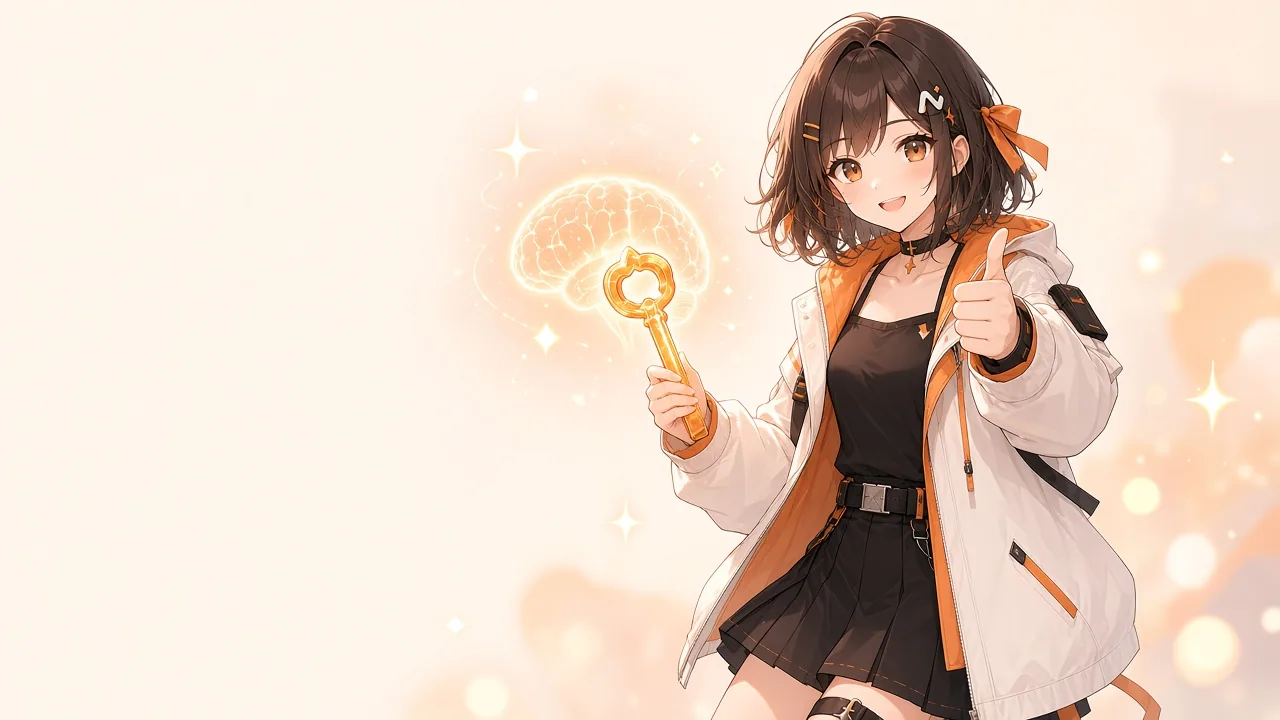
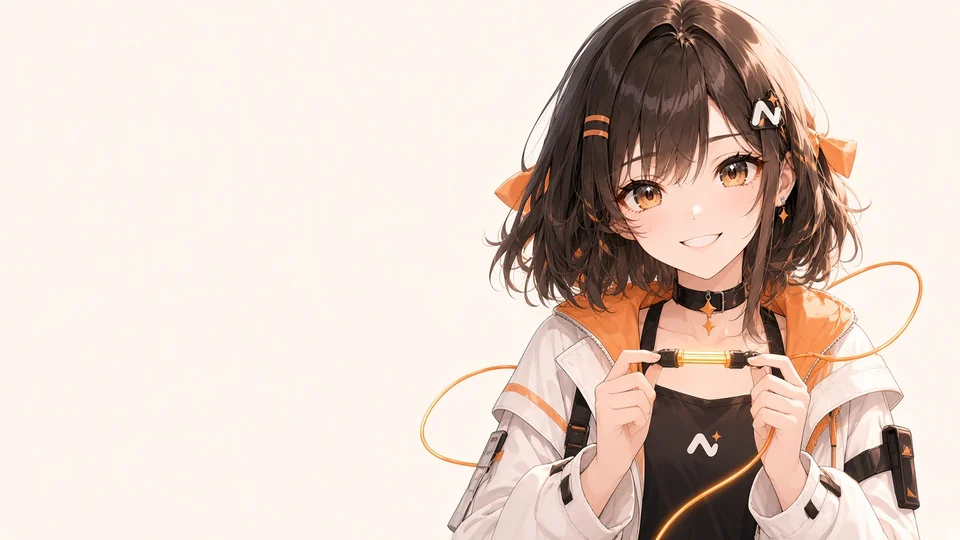
feat(ai-chat): redraw onboarding art with a consistent Nomi face based on official reference

diff --git a/CREDITS.md b/CREDITS.md
@@ -8,7 +8,7 @@
 
 - **Brand board, mascot artwork (2D pseudo-3D layered rig `sprite/nomi`, body cut from the owner's half-body illustration, head from the owner's front-facing HD head image), logo concept** — owner-provided, AI-generated, licensed by project owner (Cookieboty) for use in this repository under the MIT licence.
 - **Hand / forearm pieces** (`sprite/nomi/layers/hands/`) — AI-generated, non-brand art (a neutral forearm cuff and hand in nine shapes: wave, fist, thumbs-up, point, rest, peace, plus prayer / OK / hand-on-chest), cut out and colour-matched to the master by Nomi-ai contributors; licensed by the project owner under the MIT licence. They are the only AI-generated pixels added to the rig after the brand artwork was fixed; no brand part (hair, hairclips, bow, earring, choker, jacket, logo, tag) is generated or redrawn — see [docs/BRAND.md](docs/BRAND.md#9-品牌锁).
-- **Onboarding illustrations** (`packages/ai-chat/src/components/Onboarding/art/*.webp`: welcome, appearance, profile, provider) — AI-generated scene art requested by the project owner (Cookieboty) for the first-run guide and licensed by the project owner under the MIT licence. They are decorative only and are **not** brand-lock master art; the rig and brand parts are unchanged — see [docs/BRAND.md](docs/BRAND.md#9-品牌锁).
+- **Onboarding illustrations** (`packages/ai-chat/src/components/Onboarding/art/*.webp`: welcome, appearance, profile, provider) — AI-generated scene art requested by the project owner (Cookieboty) for the first-run guide and licensed by the project owner under the MIT licence. Updated in v2.0.4: welcome / profile / provider were regenerated using the official reference art (`docs/brand/reference/nomi-closeup.png`, `nomi-clean-halfbody.jpg`) as the character reference so Nomi's face, hair and accessories stay consistent across all steps. They are decorative only and are **not** brand-lock master art; the rig and brand parts are unchanged — see [docs/BRAND.md](docs/BRAND.md#9-品牌锁).
 - **Vector logo / app icons / tray icons** (`docs/brand/*.svg`, `packages/electron/assets/`) — recreated as vectors from the brand board by Nomi-ai contributors; same terms.
 
 ## Code references

diff --git a/.changeset/onboarding-art-consistent-face.md b/.changeset/onboarding-art-consistent-face.md
@@ -1,0 +1,5 @@
+---
+'@nomi-ai/ai-chat': patch
+---
+
+新手引导配图（欢迎 / 关于你 / 接入模型，隐私页复用欢迎图）以官方立绘为参考重新绘制，统一 Nomi 的脸型、五官、发型与配饰；各步动作保持不同，人物仍在右侧、左侧留白。
